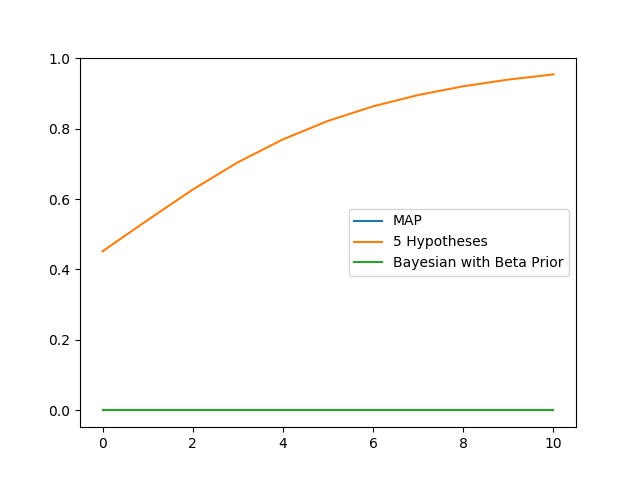
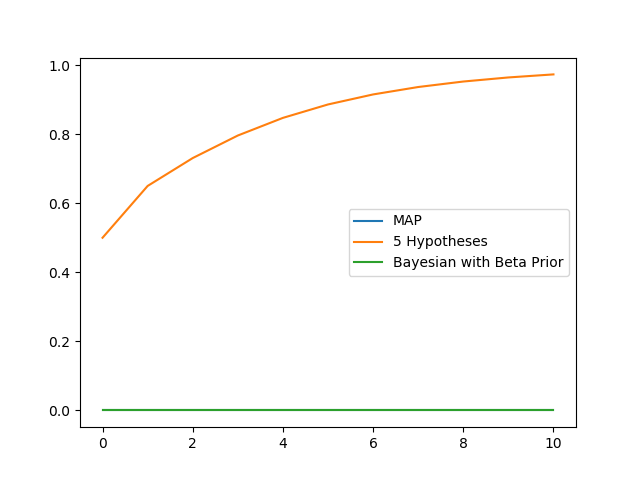
finished 5 hypo

diff --git a/bayesian.py b/bayesian.py
@@ -54,14 +54,13 @@ class Posterior:
         lime = 1
         for d in range(self.N):
             temp_sum = 0.0
-            alpha = self.compute_alpha(hypotheses, prior)
+            alpha = self.compute_alpha(d, hypotheses, prior)
             for i in range(1, len(hypotheses) + 1):
                 p_lime = hypotheses[i][lime] * prior[i - 1]
-                product = (hypotheses[i][lime]) ** (i-1)
+                product = (hypotheses[i][lime]) ** (d)
                 temp_sum += (p_lime * product)
-            new_lime[d] = temp_sum / alpha
-            print(new_lime[d])
-            prior = self.update_prior(hypotheses, prior)
+            new_lime[d] = temp_sum * alpha
+            # print(new_lime[d])
         return new_lime
 
     def get_infinite(self):
@@ -73,24 +72,18 @@ class Posterior:
 
         return np.zeros(self.N)
 
-    def update_prior(self, hypotheses, prior):
+    def h_given_lime(self,d, h, p, alpha):
         lime = 1
-        alpha = self.compute_alpha(hypotheses, prior)
-        new_prior = np.zeros(len(prior))
-        for i in range(1, len(hypotheses) + 1):
-            p_lime = hypotheses[i][lime] * prior[i - 1]
-            new_prior[i - 1] = p_lime / alpha
+        p_h_given_lime = alpha * (h[lime]**d)*p
+        return p_h_given_lime
 
-        return new_prior
-
-    def compute_alpha(self, hypotheses, prior):
+    def compute_alpha(self,d, hypotheses, prior):
         alpha = 0.0
         lime = 1
         for i in range(1, len(hypotheses) + 1):
-            p_lime = hypotheses[i][lime] * prior[i - 1]
+            p_lime = (hypotheses[i][lime] ** d) * prior[i - 1]
             alpha += p_lime
-        return alpha
-
+        return 1.0/alpha
 
 if __name__ == '__main__':
     # Get data
